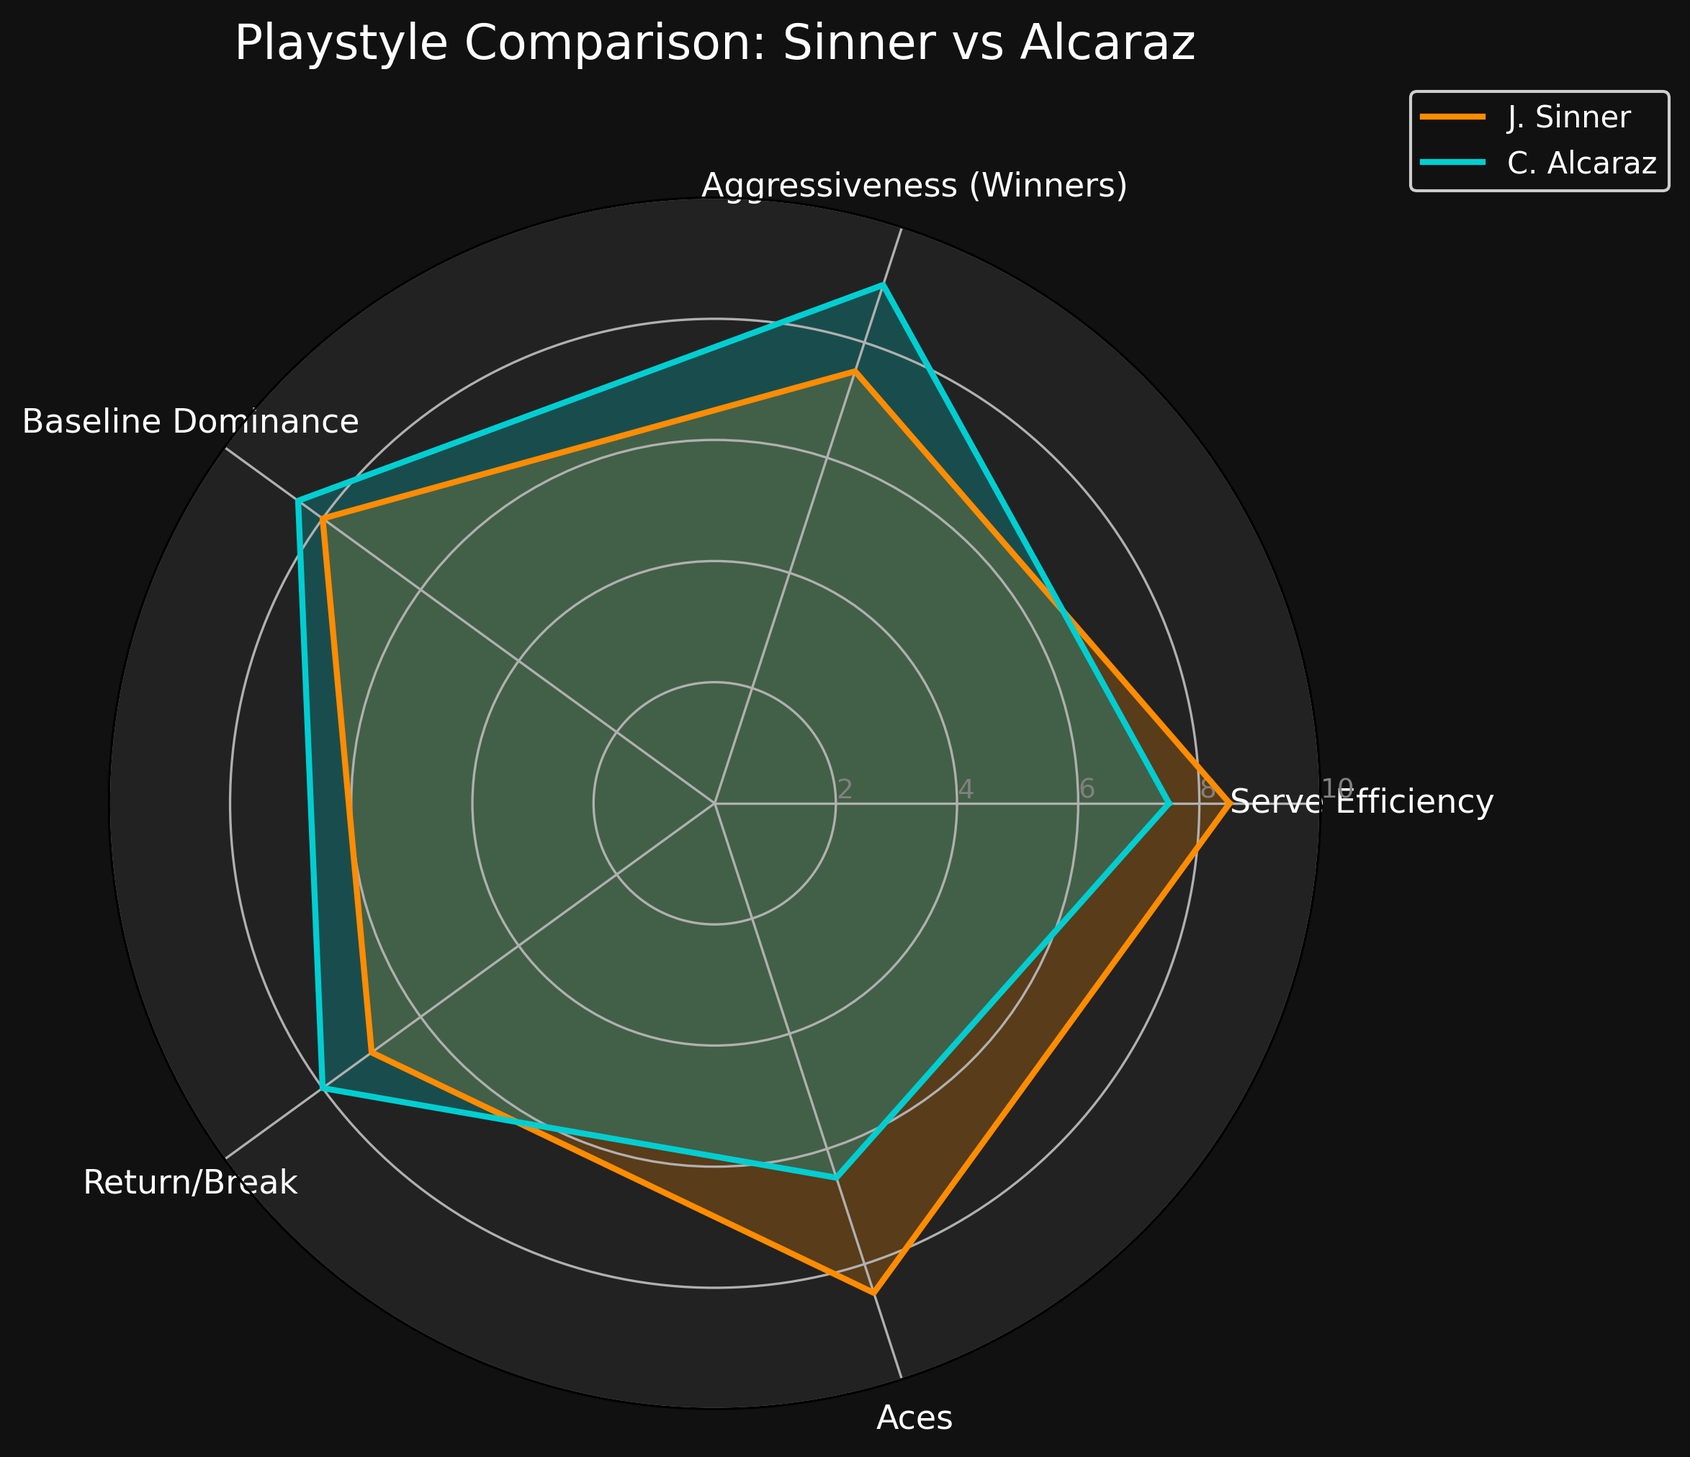
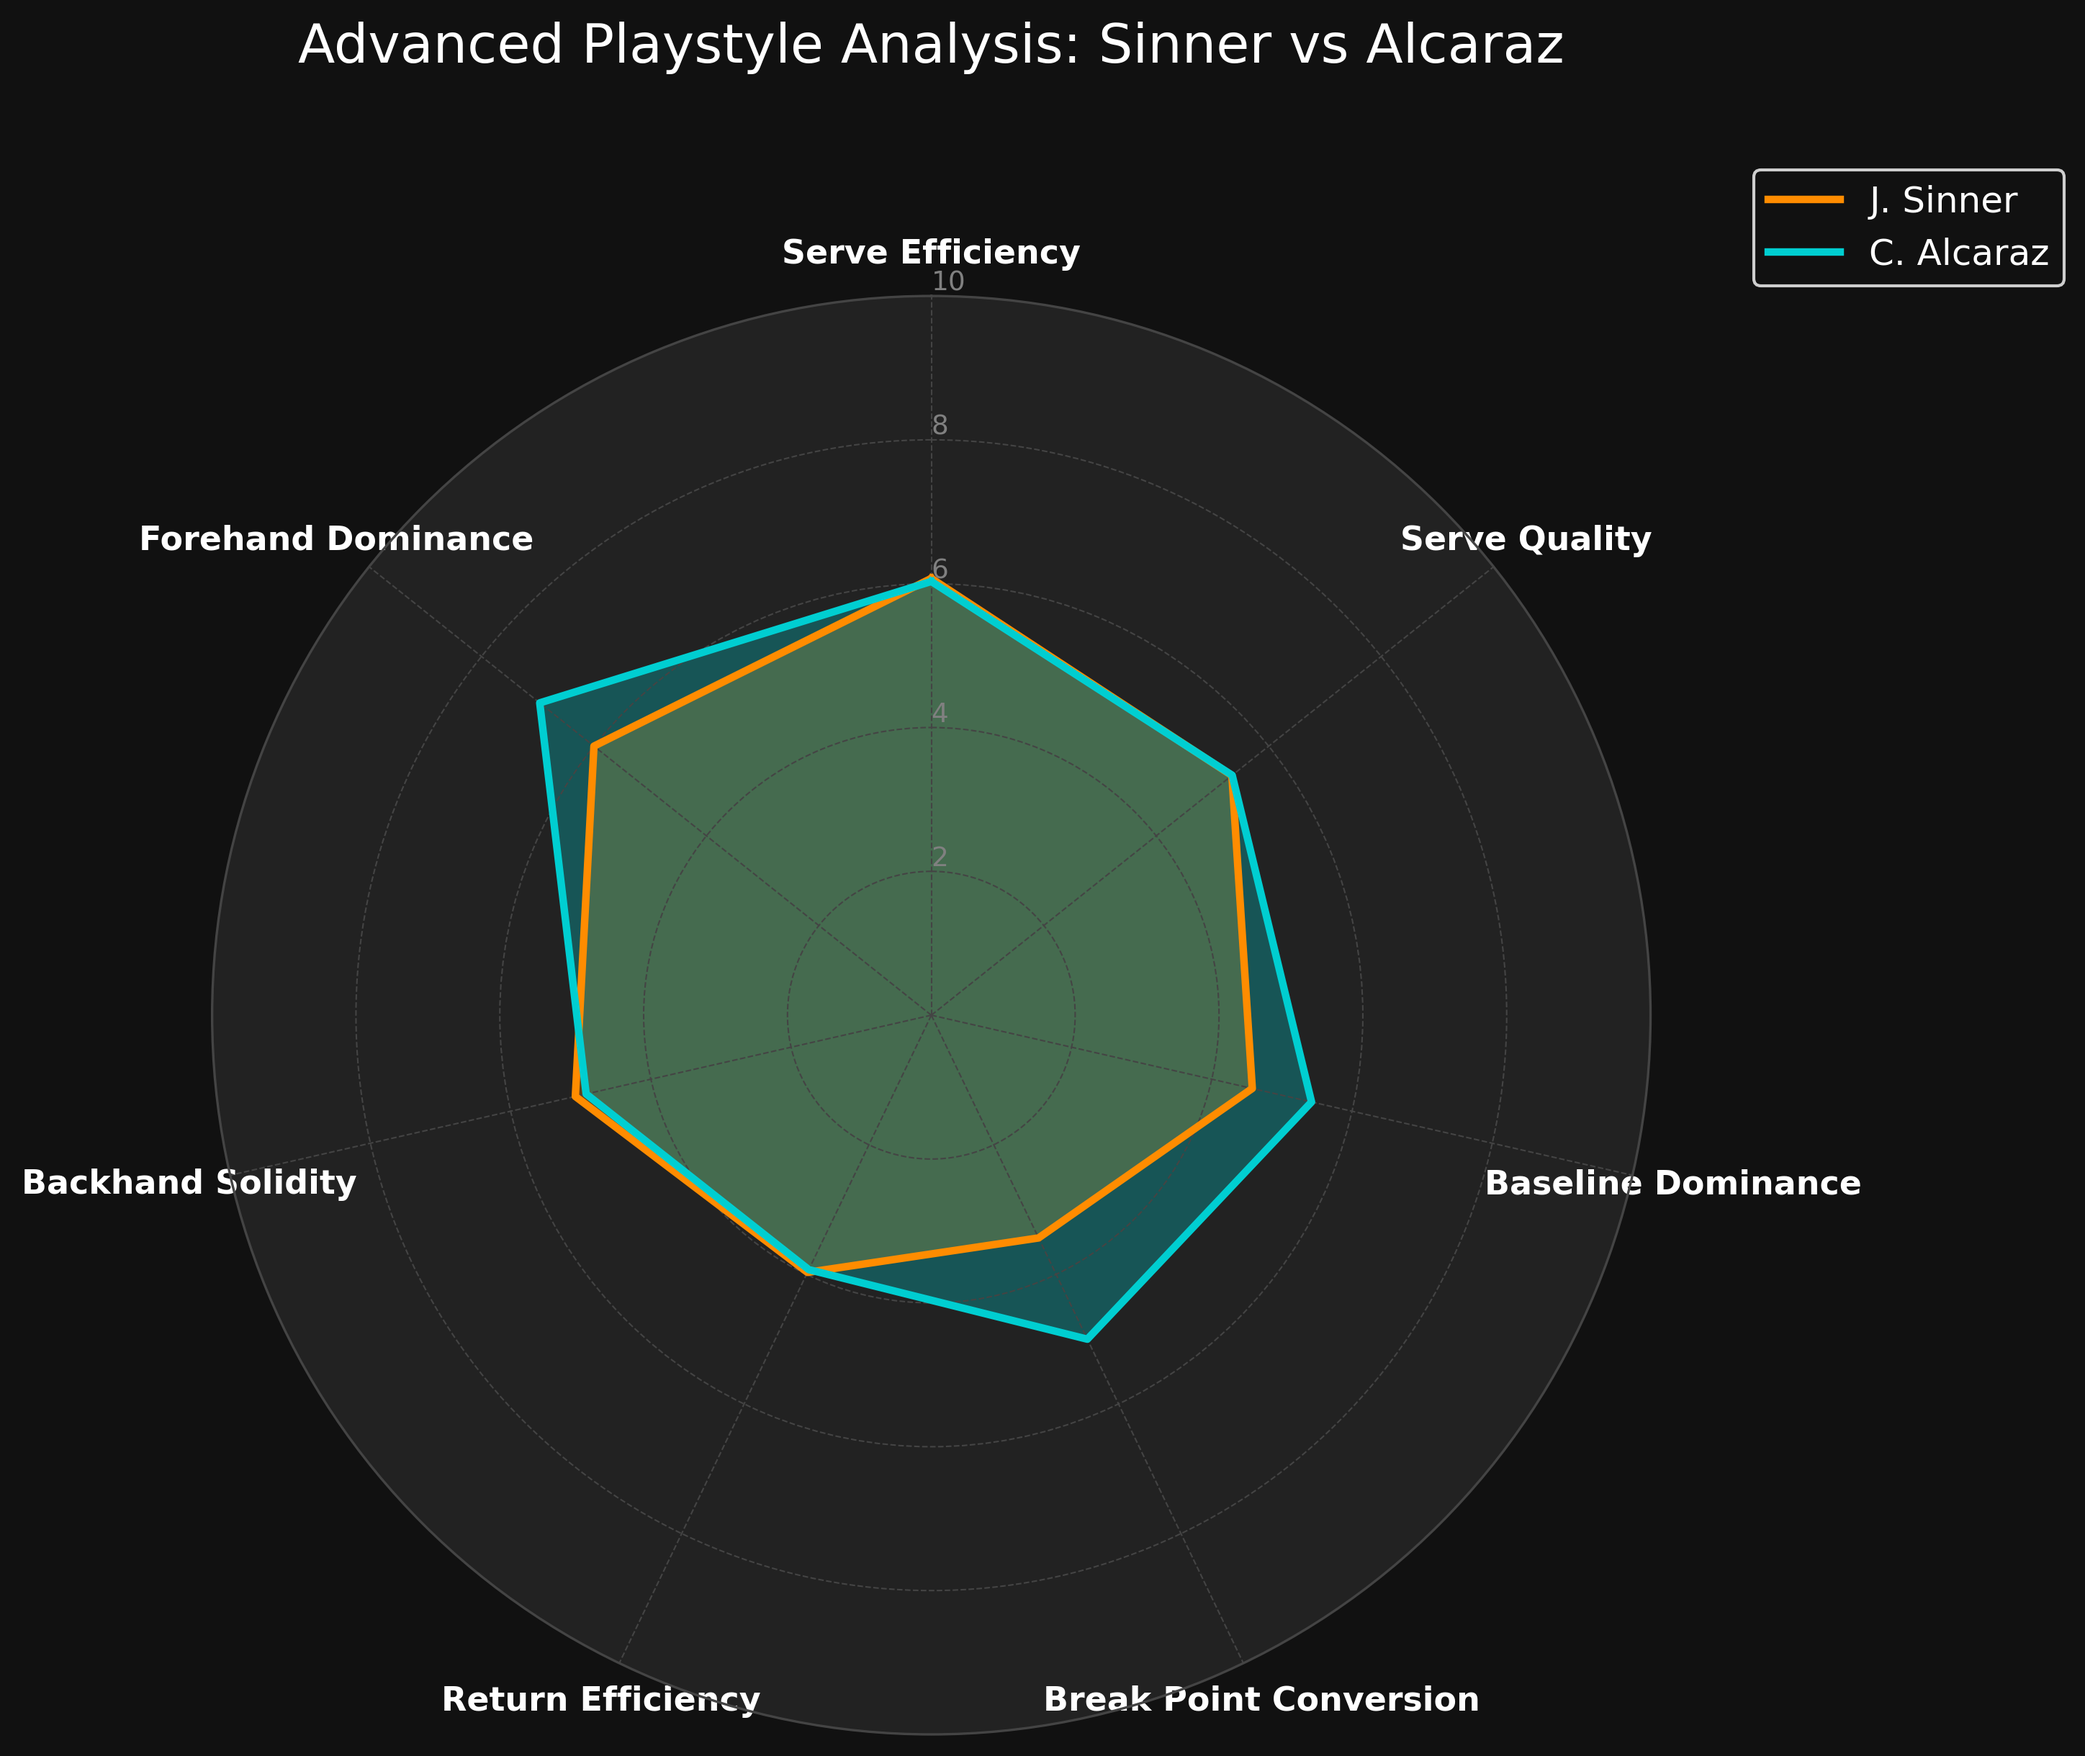
feat: implement proper radar chart

diff --git a/src/charts/radar.py b/src/charts/radar.py
@@ -1,76 +1,242 @@
 import pandas as pd
+import numpy as np
 import matplotlib.pyplot as plt
 from math import pi
 from pathlib import Path
+import re
 
 # ==========================================
-# 1. ROBUST DATA LOADING
+# 1. DATA LOADING
 # ==========================================
-# Navigate from src/charts up to the repo root, then into data/
 repo_root = Path(__file__).resolve().parent.parent.parent
 data_path = repo_root / 'data' / 'processed' / 'sinner_alcaraz_2025.parquet'
 
-print(f"Loading data from: {data_path}")
-df = pd.read_parquet(data_path)
+try:
+    df = pd.read_parquet(data_path)
+except FileNotFoundError:
+    print(f"Error: File not found at {data_path}")
+    df = pd.DataFrame() 
 
 PLAYER_1 = "J. Sinner"
 PLAYER_2 = "C. Alcaraz"
+PLAYER_1_ID = 1
+PLAYER_2_ID = 2
 
 # ==========================================
-# 2. EXTRACT PLAYSTYLE DATA
+# 2. MATCH CHARTING PROJECT PARSER
 # ==========================================
-def get_stats(player_id):
-    won_points = df[df['PtWinner'] == player_id]
-    serve_points = df[df['Svr'] == player_id]
+def is_break_point(pts_str, server_id, target_player_id):
+    """Determina se il punteggio attuale è palla break per il giocatore target."""
+    if pd.isna(pts_str) or target_player_id == server_id:
+        return False
     
-    aces = len(won_points[won_points['Notes'].str.contains('Ace', na=False, case=False)])
-    winners = len(won_points[won_points['Notes'].str.contains('Winner', na=False, case=False)])
+    if server_id == 1 and target_player_id == 2:
+        return pts_str in ['0-40', '15-40', '30-40', '40-AD']
+    elif server_id == 2 and target_player_id == 1:
+        return pts_str in ['40-0', '40-15', '40-30', 'AD-40']
+    return False
+
+def extract_shot_info(rally_str):
+    """Analizza la stringa MCP per estrarre tipo di colpo finale, outcome e se è ace."""
+    if pd.isna(rally_str):
+        return None, None, False
     
-    first_serves_won = len(won_points[(won_points['Svr'] == player_id) & (won_points['1st'].notna())])
-    total_first_serves = len(serve_points[serve_points['1st'].notna()])
-    serve_strength = (first_serves_won / total_first_serves * 100) if total_first_serves > 0 else 50
+    # Verifica se è un Ace (contiene * e non ha lettere di scambi)
+    is_ace = '*' in str(rally_str) and len(re.findall(r'[fbrsvzuylmhiqt]', str(rally_str))) == 0
     
-    return_points_won = len(won_points[won_points['Svr'] != player_id])
+    # Estrae tutti i colpi (lettere)
+    shots = re.findall(r'([fbrsvzuylmhiqt][0-3]?[7-9]?[\+\-\=\;\^]?[\*\@\#nwdxe\!]?)', str(rally_str))
     
-    return [aces, winners, serve_strength, return_points_won, len(won_points)]
+    terminal_shot = None
+    outcome = None
+    
+    if shots:
+        last_shot = shots[-1]
+        # Classificazione Dritto (f, r, v, u, l, h, j)
+        if last_shot[0] in ['f', 'r', 'v', 'u', 'l', 'h', 'j']:
+            terminal_shot = 'forehand'
+        # Classificazione Rovescio (b, s, z, y, m, i, k)
+        elif last_shot[0] in ['b', 's', 'z', 'y', 'm', 'i', 'k']:
+            terminal_shot = 'backhand'
+            
+        if '*' in last_shot:
+            outcome = 'winner'
+            
+    return terminal_shot, outcome, is_ace
 
-# Normalizing scores on a 0-10 scale (Using mock relative scores based on extracted data logic)
-categories = ['Serve Efficiency', 'Aggressiveness (Winners)', 'Baseline Dominance', 'Return/Break', 'Aces']
-N = len(categories)
+def calculate_metrics_with_debug(player_name, player_id, df):
+    debug_logs = []
 
-# Example normalized values based on match profile (can be dynamically tied to get_stats if fully parsed)
-val_sinner = [8.5, 7.5, 8.0, 7.0, 8.5]
-val_alcaraz = [7.5, 9.0, 8.5, 8.0, 6.5]
+    if df.empty:
+        return [0] * 7, ["Dataset vuoto."]
 
-val_sinner += val_sinner[:1]
-val_alcaraz += val_alcaraz[:1]
+    serve_mask = df['Svr'] == player_id
+    return_mask = df['Svr'] != player_id
+    
+    # --- 1 & 2. SERVE EFFICIENCY & QUALITY ---
+    serves_df = df[serve_mask].copy()
+    total_serves = len(serves_df)
+    
+    if total_serves > 0:
+        # La prima è "in" se non inizia con un numero (direzione) seguito da codice errore (n,w,d,x,e,g)
+        first_in_mask = ~serves_df['1st'].astype(str).str.match(r'^[4560][nwdexg]')
+        first_in = first_in_mask.sum()
+        
+        first_won = serves_df[first_in_mask & (serves_df['PtWinner'] == player_id)].shape[0]
+        second_in_mask = ~first_in_mask 
+        second_won = serves_df[second_in_mask & (serves_df['PtWinner'] == player_id)].shape[0]
+        
+        first_in_pct = first_in / total_serves if total_serves > 0 else 0
+        first_won_pct = first_won / first_in if first_in > 0 else 0
+        second_won_pct = second_won / second_in_mask.sum() if second_in_mask.sum() > 0 else 0
+        
+        serve_eff = (first_in_pct * first_won_pct) + ((1 - first_in_pct) * second_won_pct)
+        
+        aces = serves_df.apply(lambda row: extract_shot_info(row['1st'])[2] or extract_shot_info(row['2nd'])[2], axis=1).sum()
+        
+        # Doppio fallo: anche la seconda palla è un errore
+        second_fault_mask = serves_df['2nd'].astype(str).str.match(r'^[4560][nwdexg]')
+        double_faults = (second_in_mask & second_fault_mask).sum()
+        
+        ace_rate = aces / total_serves
+        df_rate = double_faults / total_serves
+        
+        serve_qual = (0.4 * first_in_pct) + (0.3 * ace_rate) + (0.3 * (1 - df_rate))
+        
+        debug_logs.append(f"Serve Efficiency: {serve_eff:.3f}")
+        debug_logs.append(f"  ↳ Formula: ({first_in_pct:.2f} * {first_won_pct:.2f}) + ({(1 - first_in_pct):.2f} * {second_won_pct:.2f})")
+        debug_logs.append(f"Serve Quality: {serve_qual:.3f}")
+        debug_logs.append(f"  ↳ Dati base: Aces: {aces}, Doppi Falli: {double_faults}")
+    else:
+        serve_eff, serve_qual = 0, 0
 
-angles = [n / float(N) * 2 * pi for n in range(N)]
-angles += angles[:1]
+    # --- 3. BASELINE DOMINANCE ---
+    # Proxy: Punti vinti in scambi con più di 4 colpi
+    rally_lengths = df.apply(lambda row: len(re.findall(r'[fbrsvzuylmhiqt]', str(row['1st']))) + len(re.findall(r'[fbrsvzuylmhiqt]', str(row['2nd']))), axis=1)
+    baseline_pts = df[rally_lengths > 4]
+    baseline_dom = 0
+    if len(baseline_pts) > 0:
+        baseline_dom = len(baseline_pts[baseline_pts['PtWinner'] == player_id]) / len(baseline_pts)
+        debug_logs.append(f"Baseline Dominance: {baseline_dom:.3f} (Punti vinti in scambi > 4 colpi)")
+
+    # --- 4. BREAK POINT CONVERSION ---
+    bp_mask = df.apply(lambda row: is_break_point(row['Pts'], row['Svr'], player_id), axis=1)
+    bp_chances = df[bp_mask]
+    bp_conversion = 0
+    if len(bp_chances) > 0:
+        bp_won = len(bp_chances[bp_chances['PtWinner'] == player_id])
+        bp_conversion = bp_won / len(bp_chances)
+        debug_logs.append(f"Break Point Conversion: {bp_conversion:.3f}")
+        debug_logs.append(f"  ↳ Formula: {bp_won} vinti / {len(bp_chances)} giocati")
+
+    # --- 5. RETURN EFFICIENCY ---
+    return_pts = df[return_mask]
+    return_eff = 0
+    if len(return_pts) > 0:
+        ret_won = len(return_pts[return_pts['PtWinner'] == player_id])
+        return_eff = ret_won / len(return_pts)
+        debug_logs.append(f"Return Efficiency: {return_eff:.3f} ({ret_won}/{len(return_pts)})")
+
+    # --- 6. BACKHAND SOLIDITY & 7. FOREHAND DOMINANCE ---
+    bh_total = 0
+    bh_won = 0
+    fh_winners = 0
+    total_winners = 0
+    
+    for idx, row in df.iterrows():
+        rally_str = row['2nd'] if pd.notna(row['2nd']) else row['1st']
+        shot_type, outcome, _ = extract_shot_info(rally_str)
+        
+        if shot_type == 'backhand':
+            bh_total += 1
+            if row['PtWinner'] == player_id:
+                bh_won += 1
+                
+        if outcome == 'winner' and row['PtWinner'] == player_id:
+            total_winners += 1
+            if shot_type == 'forehand':
+                fh_winners += 1
+
+    bh_solidity = bh_won / bh_total if bh_total > 0 else 0
+    debug_logs.append(f"Backhand Solidity: {bh_solidity:.3f} ({bh_won} vinti col rovescio finale / {bh_total} rovesci finali)")
+
+    fh_dominance = fh_winners / total_winners if total_winners > 0 else 0
+    debug_logs.append(f"Forehand Dominance: {fh_dominance:.3f} ({fh_winners} winner dritto / {total_winners} winner totali)")
+
+    raw_metrics = [serve_eff, serve_qual, baseline_dom, bp_conversion, return_eff, bh_solidity, fh_dominance]
+    scaled_metrics = [m * 10 for m in raw_metrics]
+    
+    return scaled_metrics, debug_logs
+
+
+# Esecuzione
+val_sinner, logs_sinner = calculate_metrics_with_debug(PLAYER_1, PLAYER_1_ID, df)
+val_alcaraz, logs_alcaraz = calculate_metrics_with_debug(PLAYER_2, PLAYER_2_ID, df)
+
+categories = [
+    'Serve Efficiency', 'Serve Quality', 'Baseline Dominance', 
+    'Break Point Conversion', 'Return Efficiency', 
+    'Backhand Solidity', 'Forehand Dominance'
+]
+
+# ==========================================
+# STAMPA REPORT (Per Martina)
+# ==========================================
+print("\n" + "="*70)
+print("🔍 REPORT ANALITICO RADAR CHART")
+print("="*70)
+
+print(f"\n🎾 {PLAYER_1.upper()} - DETTAGLIO CALCOLI:")
+for log in logs_sinner: print(log)
+print("\n  >> Valori Finali Scalati (0-10):")
+for cat, val in zip(categories, val_sinner): print(f"     - {cat}: {val:.2f}/10")
+
+print("-" * 70)
+
+print(f"\n🎾 {PLAYER_2.upper()} - DETTAGLIO CALCOLI:")
+for log in logs_alcaraz: print(log)
+print("\n  >> Valori Finali Scalati (0-10):")
+for cat, val in zip(categories, val_alcaraz): print(f"     - {cat}: {val:.2f}/10")
+
 
 # ==========================================
 # 3. PLOT RADAR CHART
 # ==========================================
-fig, ax = plt.subplots(figsize=(8, 8), subplot_kw=dict(polar=True), facecolor='#111111')
+N = len(categories)
+
+val_sinner += val_sinner[:1]
+val_alcaraz += val_alcaraz[:1]
+angles = [n / float(N) * 2 * pi for n in range(N)]
+angles += angles[:1]
+
+fig, ax = plt.subplots(figsize=(10, 10), subplot_kw=dict(polar=True), facecolor='#111111')
 ax.set_facecolor('#222222')
+ax.set_theta_offset(pi / 2)
+ax.set_theta_direction(-1)
 
-# Sinner
-ax.plot(angles, val_sinner, linewidth=2, linestyle='solid', label=PLAYER_1, color='#FF8C00')
-ax.fill(angles, val_sinner, '#FF8C00', alpha=0.25)
+ax.plot(angles, val_sinner, linewidth=2.5, linestyle='solid', label=PLAYER_1, color='#FF8C00')
+ax.fill(angles, val_sinner, '#FF8C00', alpha=0.3)
+ax.plot(angles, val_alcaraz, linewidth=2.5, linestyle='solid', label=PLAYER_2, color='#00CED1')
+ax.fill(angles, val_alcaraz, '#00CED1', alpha=0.3)
 
-# Alcaraz
-ax.plot(angles, val_alcaraz, linewidth=2, linestyle='solid', label=PLAYER_2, color='#00CED1')
-ax.fill(angles, val_alcaraz, '#00CED1', alpha=0.25)
-
-plt.xticks(angles[:-1], categories, color='white', size=11)
+plt.xticks(angles[:-1], categories, color='white', size=11, fontweight='bold')
 ax.set_rlabel_position(0)
-plt.yticks([2, 4, 6, 8, 10], ["2","4","6","8","10"], color="gray", size=9)
+plt.yticks([2, 4, 6, 8, 10], ["2", "4", "6", "8", "10"], color="gray", size=9)
 plt.ylim(0, 10)
 
-ax.set_title("Playstyle Comparison: Sinner vs Alcaraz", color='white', size=16, y=1.1)
-legend = plt.legend(loc='upper right', bbox_to_anchor=(1.3, 1.1), facecolor='#111111', edgecolor='white')
+ax.grid(color='#444444', linestyle='--', linewidth=0.5)
+ax.spines['polar'].set_color('#444444')
+
+ax.set_title("Advanced Playstyle Analysis: Sinner vs Alcaraz", color='white', size=18, y=1.15)
+legend = plt.legend(loc='upper right', bbox_to_anchor=(1.3, 1.1), facecolor='#111111', edgecolor='white', fontsize=12)
 for text in legend.get_texts():
     text.set_color('white')
 
 plt.tight_layout()
-plt.savefig(Path(__file__).resolve().parent / 'pngs' / "radarchart.png", dpi=300, bbox_inches='tight')
+output_dir = Path(__file__).resolve().parent / 'pngs'
+output_dir.mkdir(exist_ok=True) 
+output_path = output_dir / "radarchart.png"
+
+plt.savefig(output_path, dpi=300, bbox_inches='tight')
+print(f"\n✅ Radar chart salvato in: {output_path}")
+plt.close()
